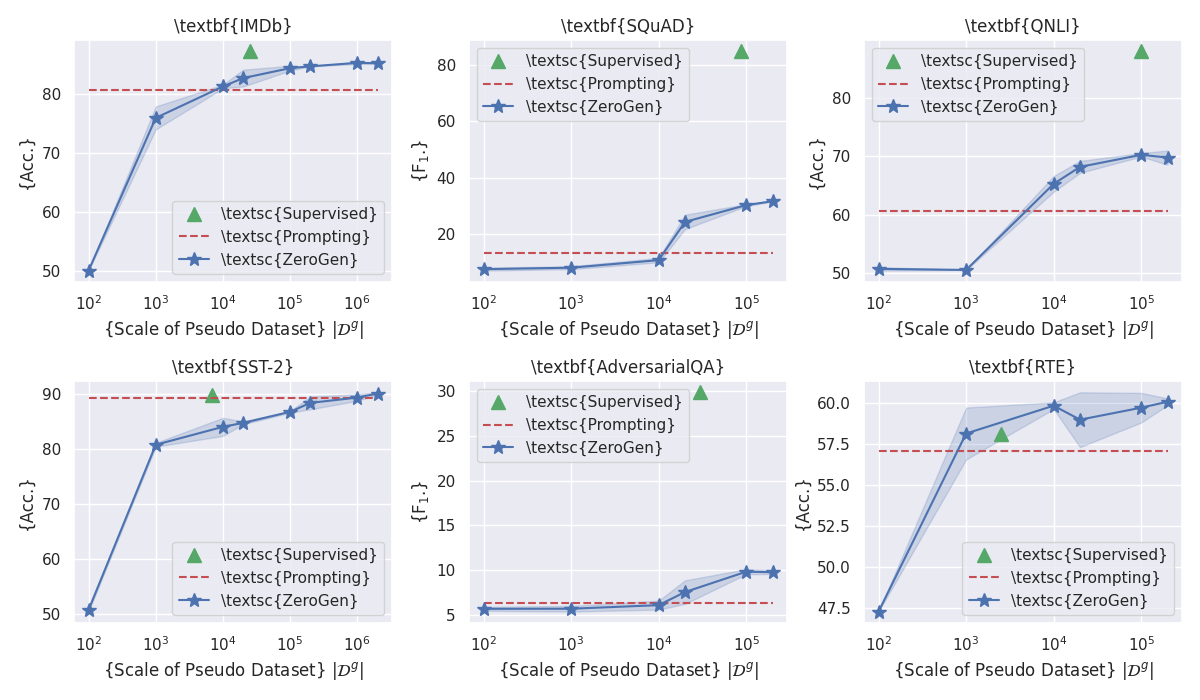
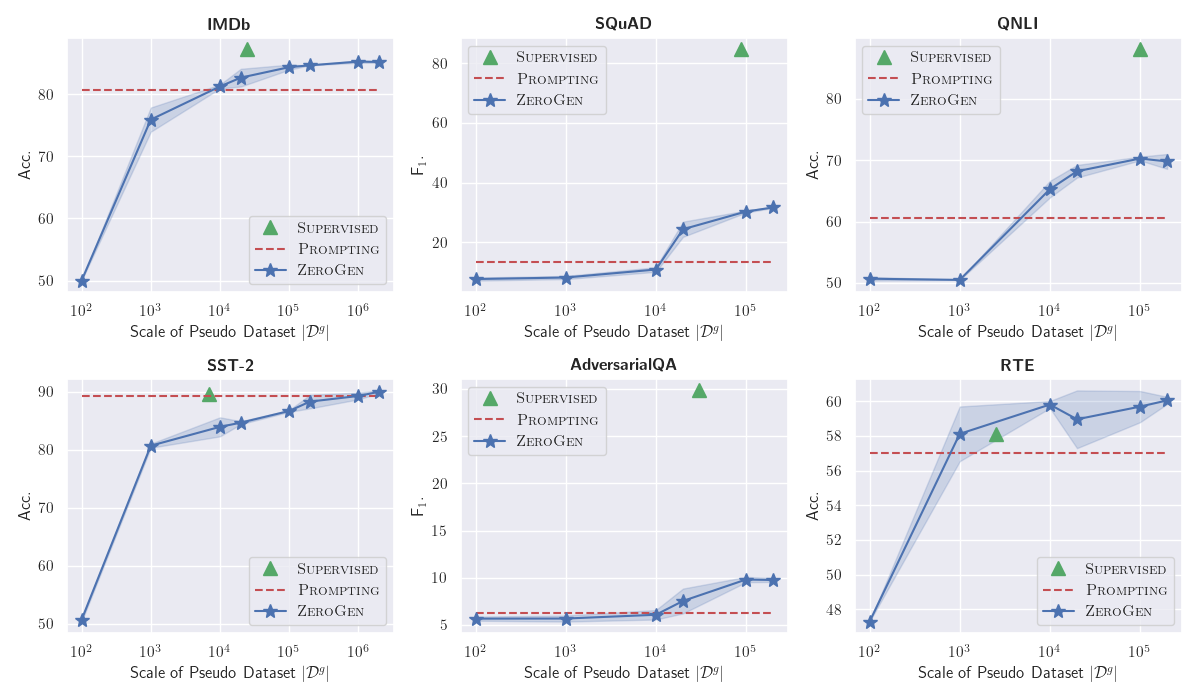
Create diagram and make refresh README

diff --git a/README.md b/README.md
@@ -3,5 +3,5 @@
 
 | Figure | Code Source | Paper |
 |  ----  | ----  | ----  |
-| <a href="https://github.com/HKUNLP/diagrams_toolkit/blob/main/papers/example/example.png">  <img src="https://github.com/HKUNLP/diagrams_toolkit/blob/main/papers/example/example.png"  width="170" /></a> | [code](https://github.com/HKUNLP/diagrams_toolkit/blob/main/papers/example/example.py) | example |
-| <a href="https://github.com/HKUNLP/diagrams_toolkit/blob/main/papers/zerogen/fig2.png">  <img src="https://github.com/HKUNLP/diagrams_toolkit/blob/main/papers/zerogen/fig2.png"  width="170" /></a> | [code](https://github.com/HKUNLP/diagrams_toolkit/blob/main/papers/zerogen/fig2.py) | zerogen |
+| <a href="https://github.com/HKUNLP/diagrams_toolkit/blob/main/papers/example/example.png">  <img src="https://github.com/HKUNLP/diagrams_toolkit/blob/main/papers/example/example.png"  width="340" /></a> | [code](https://github.com/HKUNLP/diagrams_toolkit/blob/main/papers/example/example.py) | example |
+| <a href="https://github.com/HKUNLP/diagrams_toolkit/blob/main/papers/zerogen/fig2.png">  <img src="https://github.com/HKUNLP/diagrams_toolkit/blob/main/papers/zerogen/fig2.png"  width="340" /></a> | [code](https://github.com/HKUNLP/diagrams_toolkit/blob/main/papers/zerogen/fig2.py) | zerogen |
